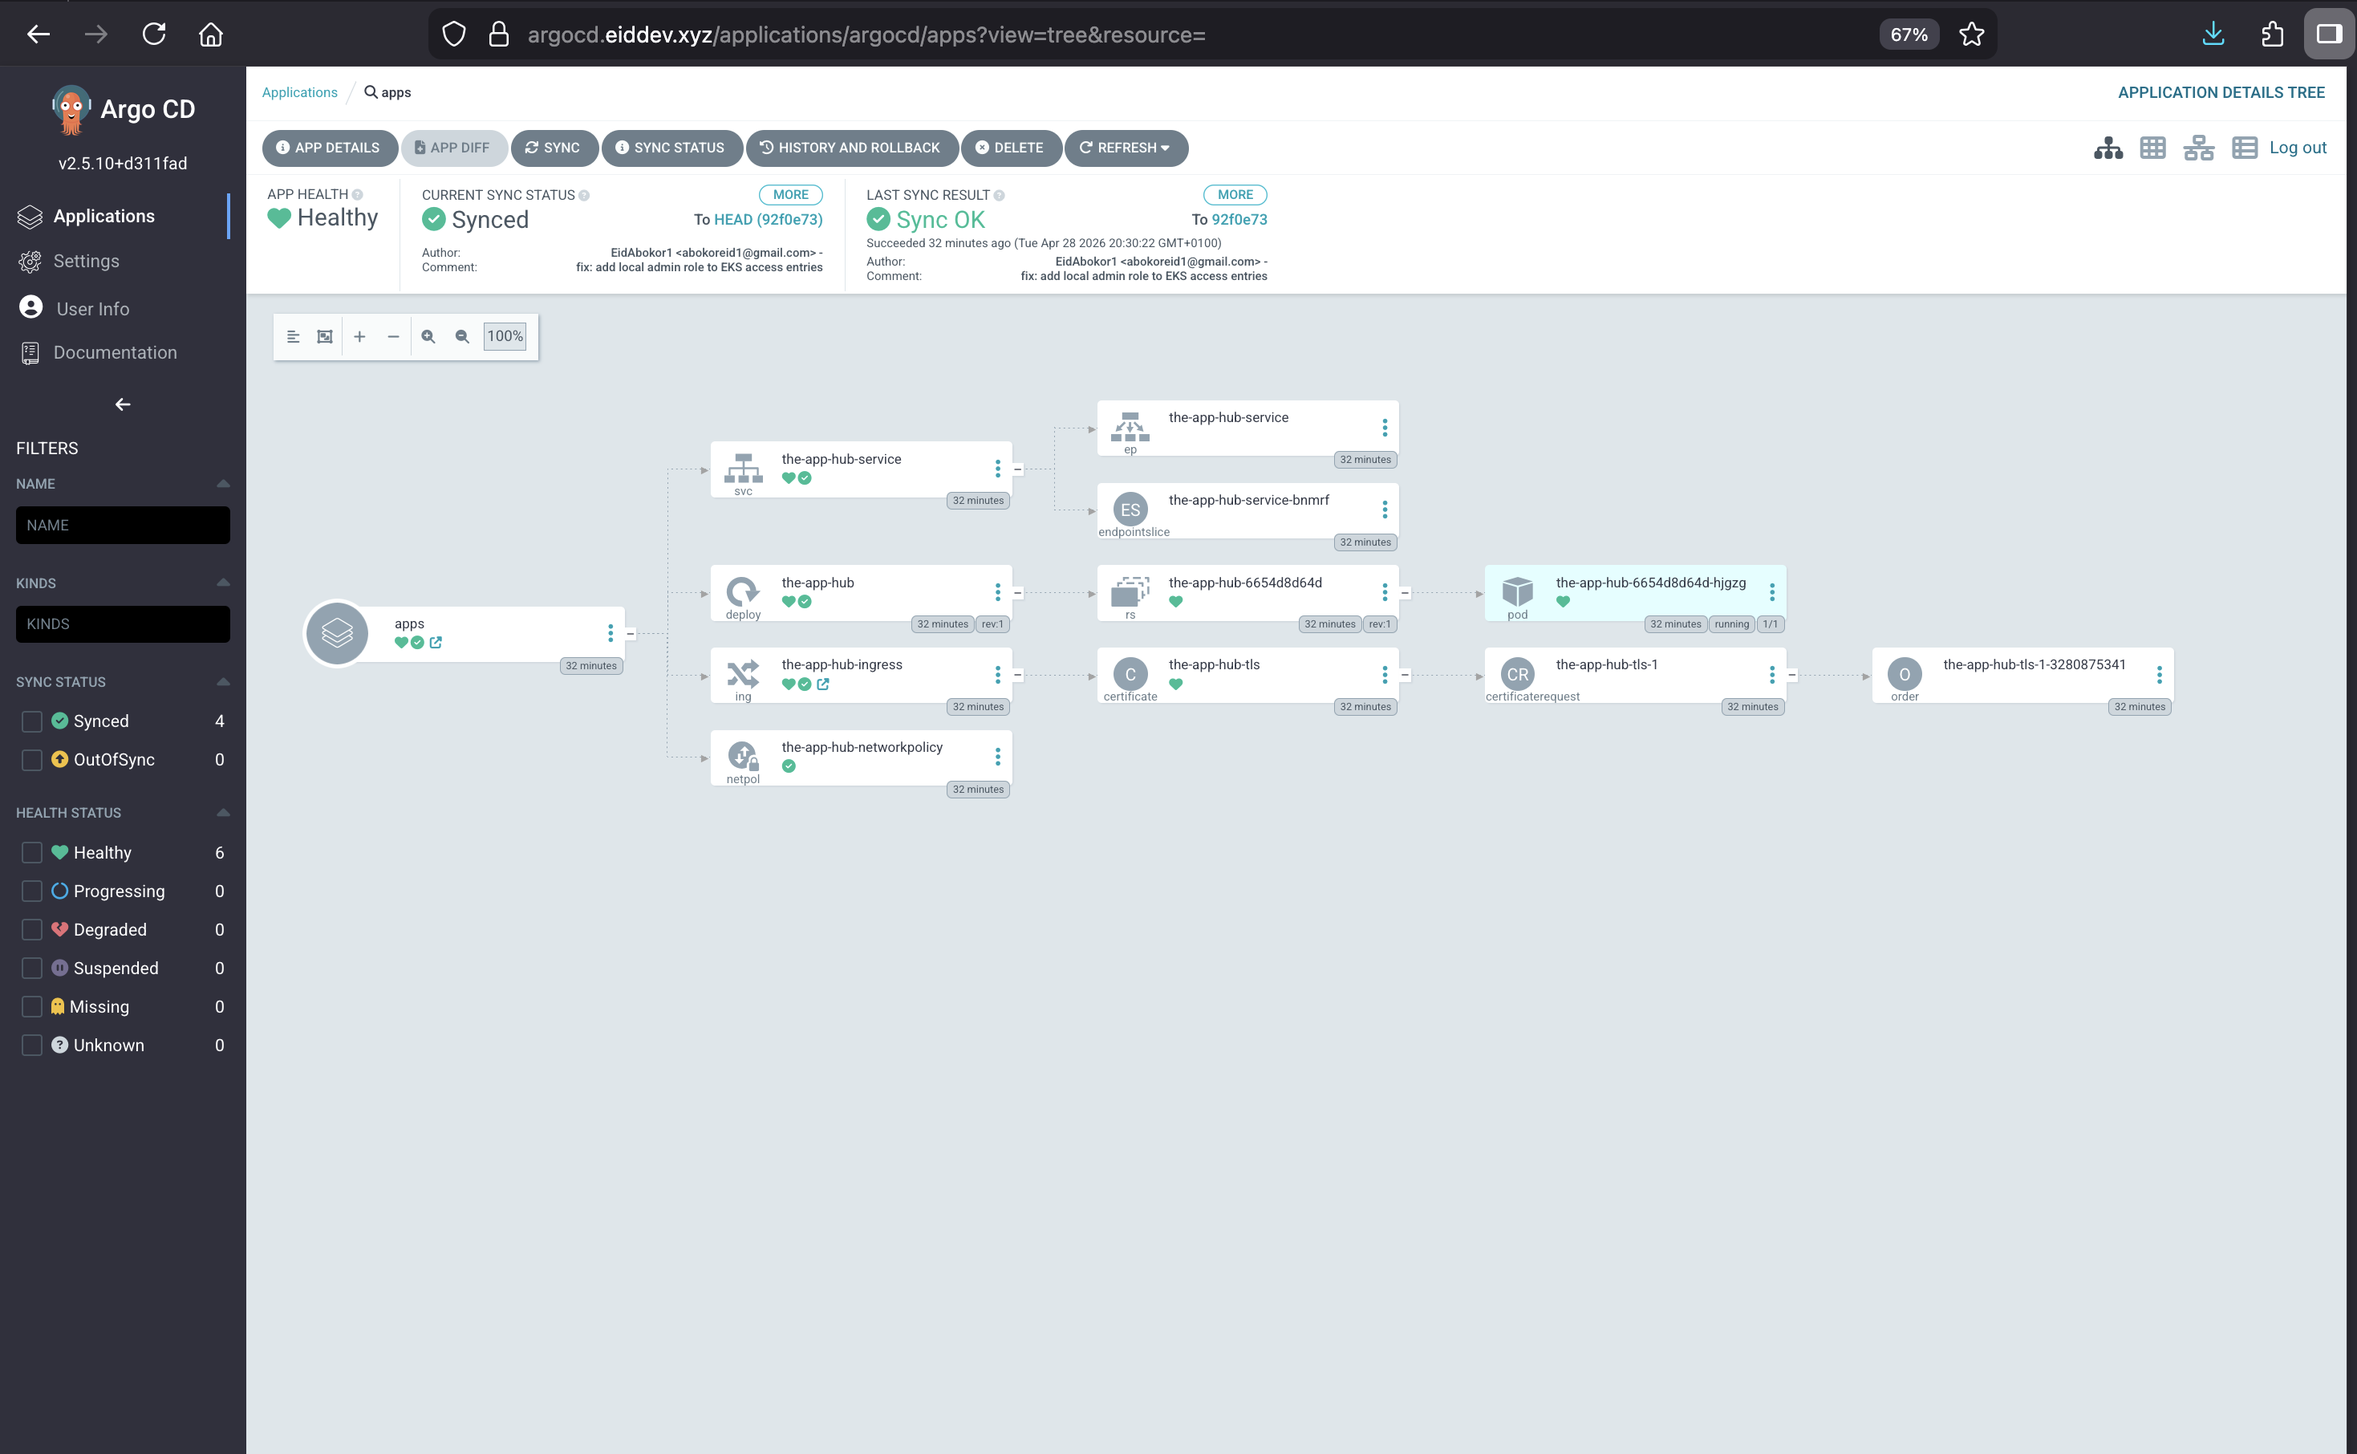
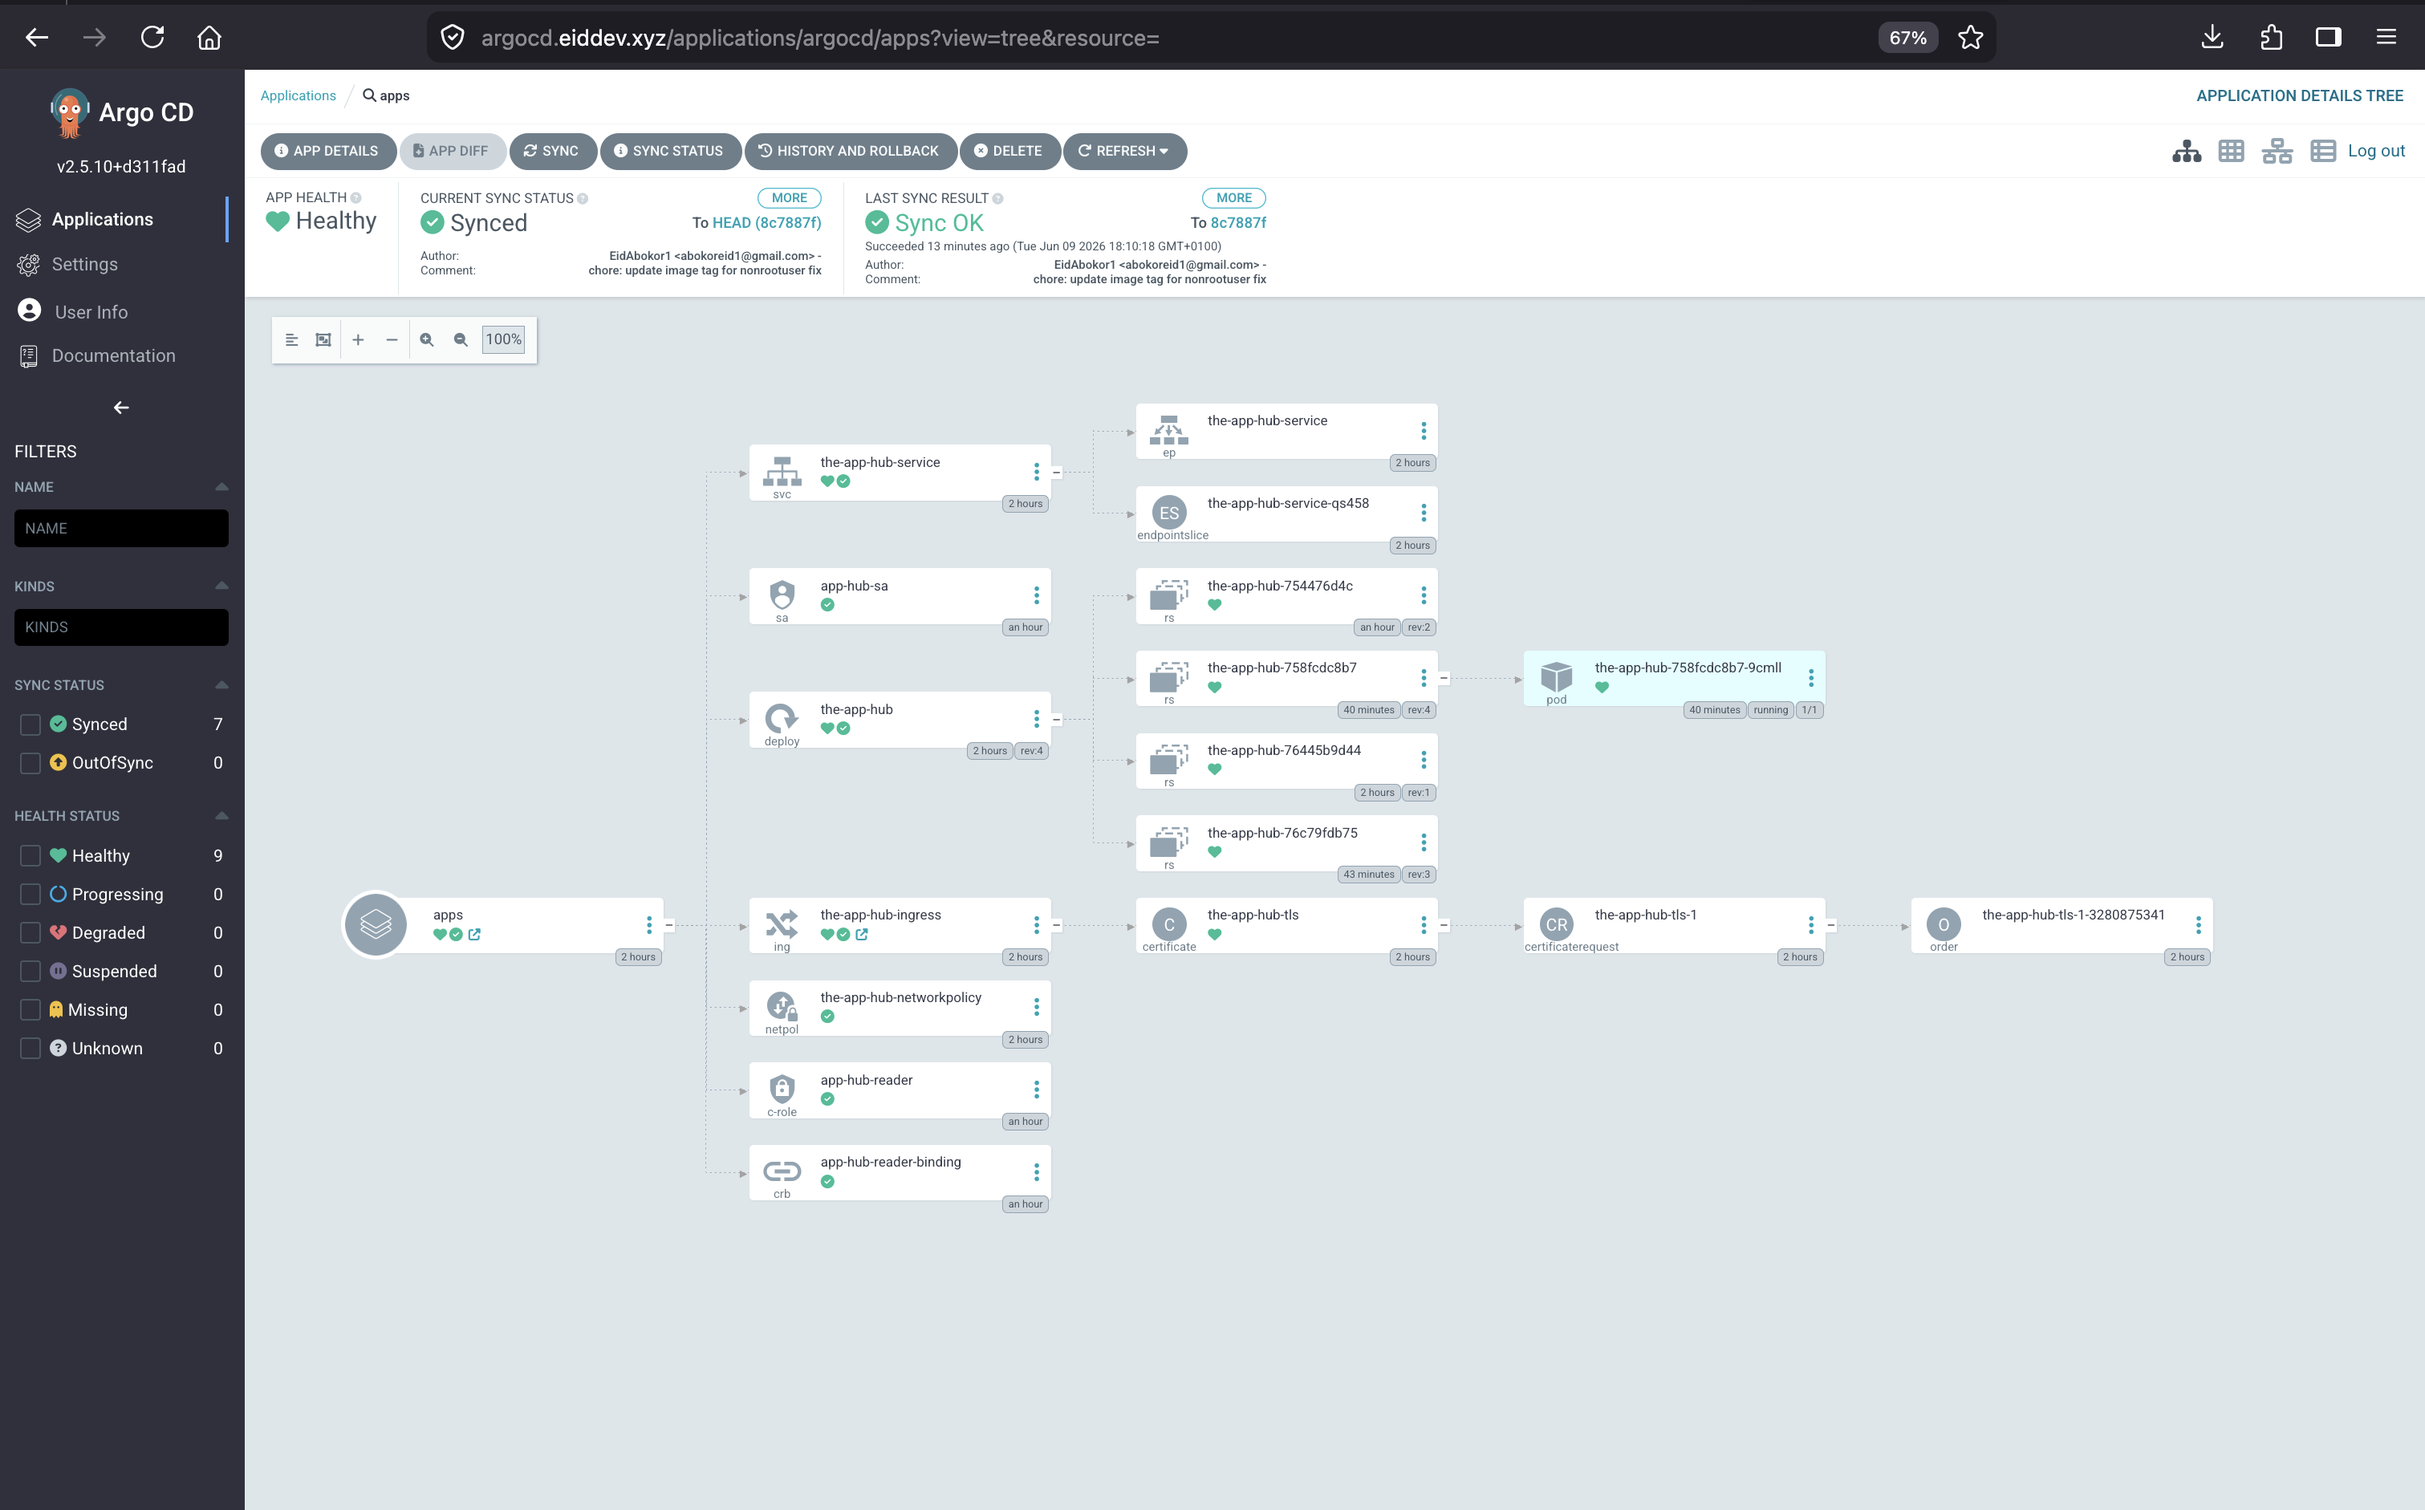
docs: update readme with status hub app details and degraded state screenshot

diff --git a/README.md b/README.md
@@ -23,6 +23,16 @@ Production-grade EKS cluster deployed with Terraform, featuring an EKS Status Hu
 - **Grype** — Vulnerability scanning
 - **pre-commit** — Git hooks for code quality
 
+## EKS Status Hub App
+
+A Python/Flask platform status page that tracks the live health of Kubernetes components by calling the Kubernetes API from inside the cluster.
+
+- Queries the K8s API for each component's deployment status
+- Displays `Healthy` (green), `Degraded` (red), or `Unknown` (yellow) per component
+- RBAC-scoped service account — only has `get` and `list` permissions on deployments
+- Served by Gunicorn behind NGINX Ingress with TLS
+- `/health` endpoint for Kubernetes liveness and readiness probes
+
 ## Architecture
 
 ![Architecture Diagram](images/architecture.png)
@@ -55,6 +65,9 @@ Production-grade EKS cluster deployed with Terraform, featuring an EKS Status Hu
 
 ### Grafana
 ![Grafana](images/grafana.png)
+
+### EKS Status Hub — Degraded State
+![Status Hub Degraded](images/app-hub-status-error.png)
 
 ## Usage
 
@@ -90,6 +103,8 @@ Two separate pipelines:
 - Grype vulnerability scan
 - Docker image build
 - Push to Amazon ECR tagged with Git commit SHA
+- Automatically updates image tag in `apps/app-hub.yml` and commits back to repo
+- ArgoCD detects the change and deploys the new image automatically
 
 Authentication via OIDC — no static credentials stored anywhere.
 
@@ -112,6 +127,9 @@ Authentication via OIDC — no static credentials stored anywhere.
 - How NetworkPolicies enforce pod-level traffic control — only allowing ingress from the nginx-ingress namespace to the app pod
 - OIDC federation for CI/CD — GitHub Actions assumes an AWS role without any stored secrets, using short-lived tokens
 - The value of security scanning in pipelines — Checkov catches Terraform misconfigs and Grype flags vulnerable dependencies before they reach the cluster
+- How the Kubernetes API works as a REST API — making HTTP GET requests from inside a pod using a service account token to query deployment health
+- RBAC in practice — scoping a service account to only the permissions it needs (get/list deployments) rather than cluster-wide access
+- GitOps image tag automation — the CI pipeline commits the new image SHA back to the repo so ArgoCD can deploy without any manual steps
 
 ## Challenges Solved
 
